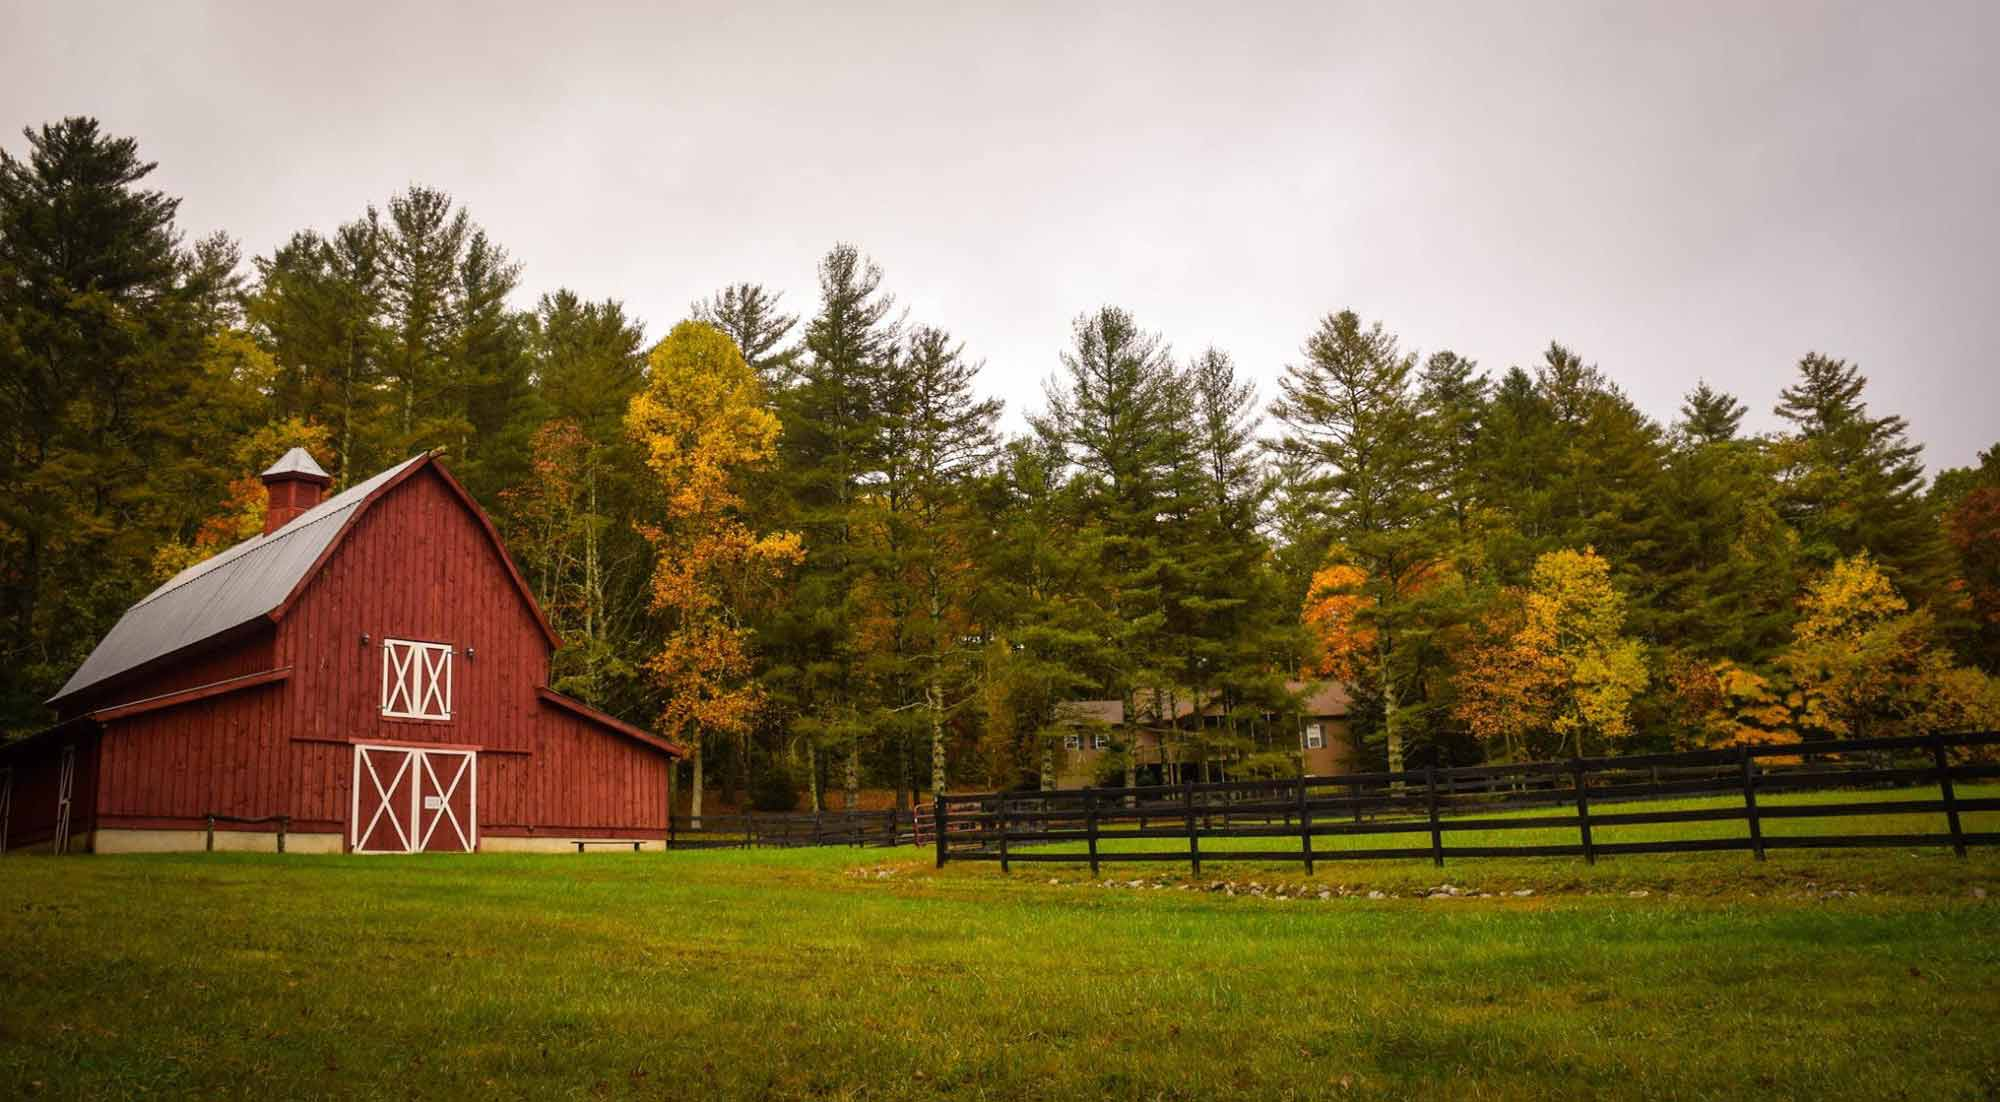
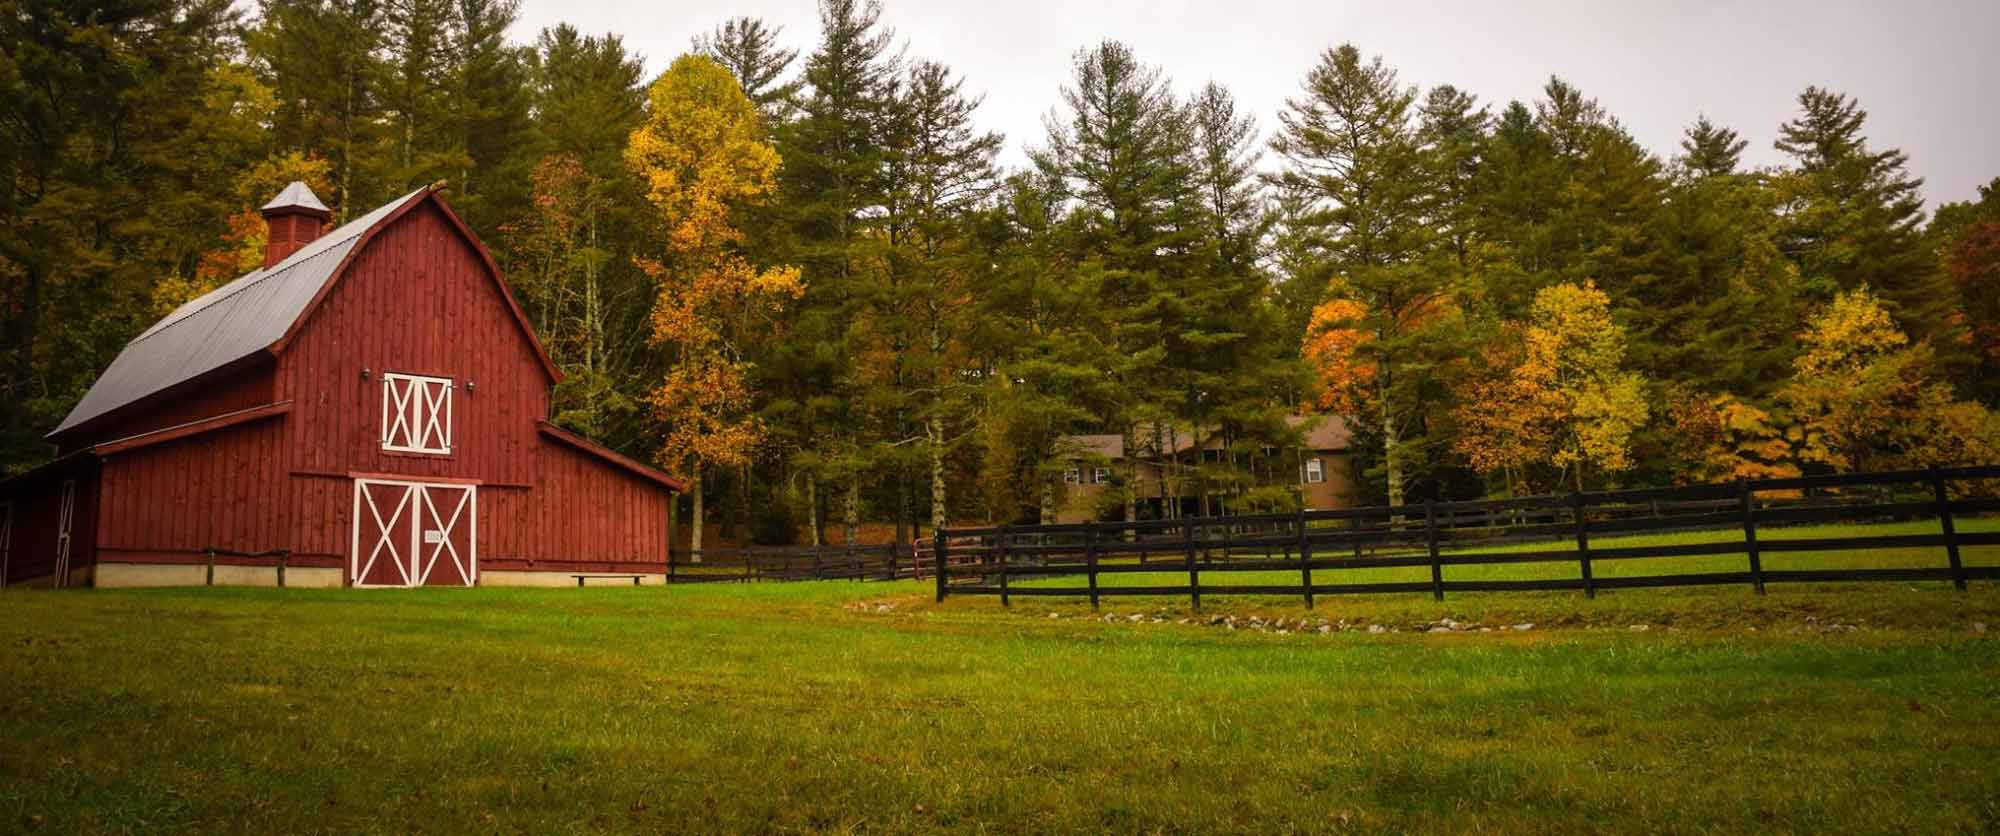
Edited content

diff --git a/index.html b/index.html
@@ -45,8 +45,8 @@
         </div>
         <div class="unit xs-1 absolute banner-content pad-top-double wrapper">
           <h1 class="strong text-center exa">Welcome to Penny Lane Farm Sanctuary</h1>
-          <p class="text-center strong peta">"Free to Just Be"</p>
-          <h2 class="not-bold text-center peta">Penny Lane Farm Sanctuary is a vegan facility</h2>
+          <p class="text-center italic peta">"Free to Just Be"</p>
+          <h2 class="not-bold text-center giga">Penny Lane Farm Sanctuary is a vegan facility</h2>
         </div>
       </div>
 
@@ -55,13 +55,32 @@
     <section>
       <div class="">
         <h2 class="text-center pad-top-double">About Us</h2>
-        <p>Penny Lane Farm Sanctuary is a registered Not-For-Profit Corporation. We provide sanctuary to horses and other animals  who have suffered from neglect or abuse or loss of trust, or who are at risk of being sent to slaughter. Our primary goal is to rescue, rehabilitate, and provide a safe haven for life. Through community involvement and education, we aim to promote compassion and kindness to all animals.  We  employ only positive reward-based methods when interacting with the animals.  Our philosophy is that they should be "free to just be." Each day we learn more as we explore the relationship between humans and non-humans in an environment that emphasizes mutual respect and appreciation. </p>
-        <p>Donations, sponsors, and volunteers help us keep the horses here at the Sanctuary healthy and happy. </p>
-        <div class="text-center">
+        <p class="island">Penny Lane Farm Sanctuary is a registered Not-For-Profit Corporation. We provide sanctuary to horses and other animals  who have suffered from neglect or abuse or loss of trust, or who are at risk of being sent to slaughter. Our primary goal is to rescue, rehabilitate, and provide a safe haven for life. Through community involvement and education, we aim to promote compassion and kindness to all animals.  We  employ only positive reward-based methods when interacting with the animals.  Our philosophy is that they should be "free to just be." Each day we learn more as we explore the relationship between humans and non-humans in an environment that emphasizes mutual respect and appreciation. </p>
+        <p class="text-center">Donations, sponsors, and volunteers help us keep the horses here at the Sanctuary healthy and happy. </p>
+        <div class="text-center pad-b-2">
           <a class="btn gutter-2" href="volunteers.html">Volunteer</a>
         </div>
       </div>
     </section>
+
+    <section>
+      <div class="pet-section island">
+        <h2 class="text-center">Please note that pets are strictly forbidden.</h2>
+        <p>Many of the Sanctuary's animal residents react fearfully to the presence of strange dogs. Out of respect to them, please leave your dogs at home when visiting, volunteering, or attending one of our Open Houses. Thank you.</p>
+      </div>
+    </section>
+
+    <section>
+      <div class="text-center pad-top-double">
+        <h2>Online Sponsorship Form now available!</h2>
+        <p>Click on the button below to fill out our sponsorship form.</p>
+        <div class="text-center pad-b-2">
+          <a class="btn gutter-2" href="sponsor.html">Sponsor</a>
+        </div>
+      </div>
+    </section>
+
+
   </main>
 
 </body>

diff --git a/sponsor.html b/sponsor.html
@@ -1,0 +1,44 @@
+<!DOCTYPE html>
+<html lang="en-ca">
+<head>
+  <meta charset="utf-8">
+  <title>Penny Lane Farm Sanctuary</title>
+  <meta name="handheldfriendly" content="true">
+  <meta name="mobileoptimized" content="240">
+  <meta name="viewport" content="width=device-width,initial-scale=1">
+  <link href="css/modules.css" rel="stylesheet">
+  <link href="css/grid.css" rel="stylesheet">
+  <link href="css/type.css" rel="stylesheet">
+  <link href="css/main.css" rel="stylesheet">
+  <link href="https://fonts.googleapis.com/css?family=Archivo+Narrow:400,400i,700" rel="stylesheet">
+  </head>
+<body>
+
+  <ul class="skip-links">
+    <li><a href="#main">Jump to main content</a></li>
+    <li><a href="#nav">Jump to navigation</a></li>
+  </ul>
+
+  <header class="masthead grid grid-middle island-1-2 role="banner"">
+
+    <div class="logo unit xs-1 s-1 m-1-3 l-1-3">
+      <img class="icon i-96" src="images/logo-pennylane.svg" alt="">
+    </div>
+
+    <nav class="nav unit xs-1 s-1 m-2-3 l-2-3 role="navigation" id="nav"">
+      <ul class="list-group-inline push-0">
+        <li class="island-1-8"><a class="text-center gutter mega pad-t-1-4 pad-b-1-4" href="index.html">Home</a></li>
+        <li class="island-1-8"><a class="text-center gutter mega pad-t-1-4 pad-b-1-4" href="animals.html">Our Animals</a></li>
+        <li class="island-1-8"><a class="text-center gutter mega pad-t-1-4 pad-b-1-4" href="contact.html">Contact Us</a></li>
+        <li class="island-1-8"><a class="text-center gutter mega pad-t-1-4 pad-b-1-4" href="policies.html">Policies</a></li>
+        <li class="island-1-8"><a class="text-center gutter mega pad-t-1-4 pad-b-1-4 current" href="volunteers.html">Sponsor/Volunteer</a></li>
+      </ul>
+    </nav>
+  </header>
+
+  <main role="main" id="main" tabindex="0">
+    <section>
+      <div class="unit xs-1">
+        <img class="img-flex" src="images/horse-field.jpg" alt="horse walking in field">
+      </div>
+    </section>

diff --git a/css/main.css b/css/main.css
@@ -15,6 +15,19 @@ li a:hover {
   color: black;
 }
 
-.banner-content h2 {
+header {
+  background-color: #EAEAEA;
+}
+
+.banner-content {
   color: #EAEAEA;
+}
+
+.banner-content h1 {
+  color: black;
+}
+
+.pet-section {
+  background-color: #3A3A3A;
+  color: white;
 }
